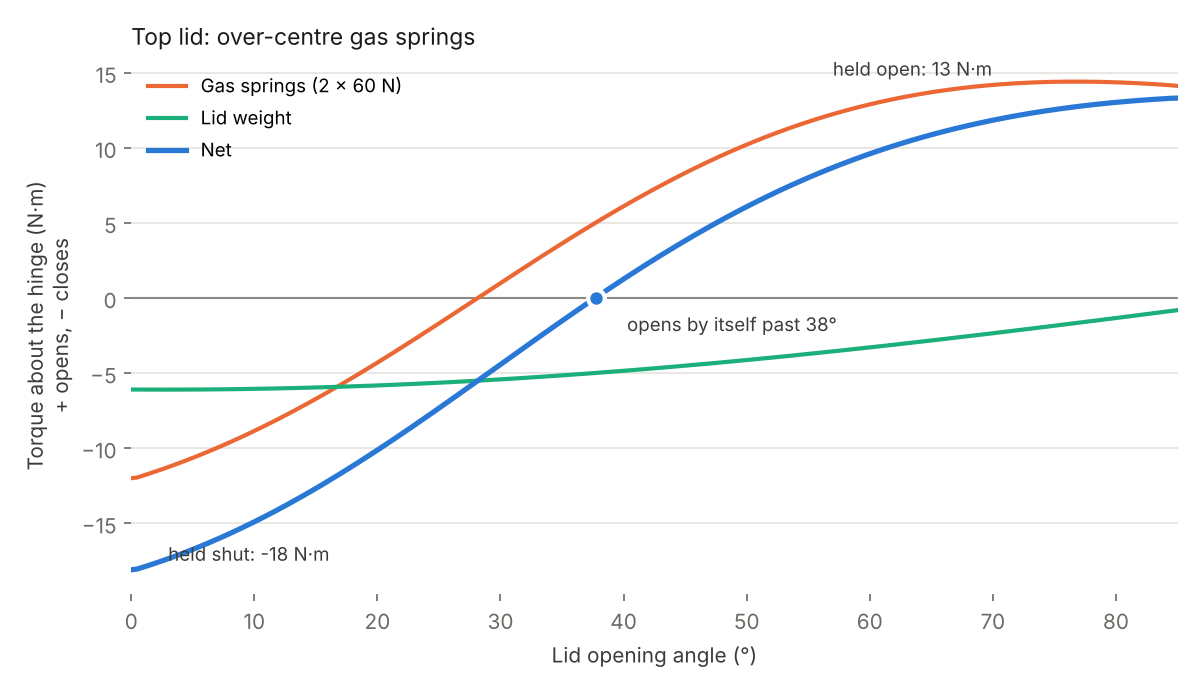
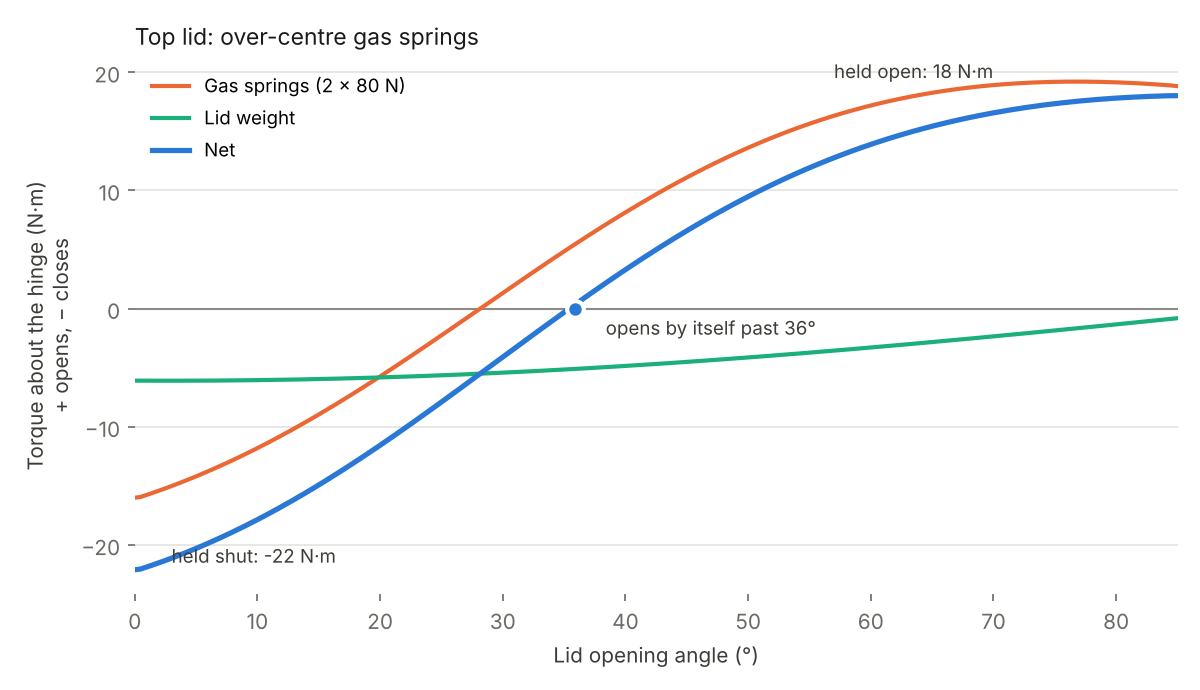
Top lid: 80 N (18 lb) struts as chosen; numbers and torque plot updated
Claude-Session: https://claude.ai/code/session_01M2WaH9nX83vAkfhzjoxYSn

diff --git a/scripts/lid/mklid.py b/scripts/lid/mklid.py
@@ -161,7 +161,7 @@ add({'tool':'describe','args':{}})
 add({'tool':'new_part_studio','args':{'name':'Lid gas springs'}})
 for f in ('gas_spring_body','gas_spring_rod','ball_stud'):
     add({'tool':'import_file','args':{'path':os.path.abspath(os.path.join(OUT,f+'.step')),'name':f}})
-add({'tool':'set_parts','args':{'parts':[{'body':[1,0],'name':'Gas spring body, 250 mm / 80 stroke, 60 N (Ø15 tube)','color':'#202020'},{'body':[2,0],'name':'Gas spring rod with ball socket (Ø6 rod)','color':'#c8c8c8'},{'body':[3,0],'name':'Ball stud M6, Ø10 ball','color':'#c8c8c8'}]}})
+add({'tool':'set_parts','args':{'parts':[{'body':[1,0],'name':'Gas spring body, 250 mm / 80 stroke, 80 N (18 lb) (Ø15 tube)','color':'#202020'},{'body':[2,0],'name':'Gas spring rod with ball socket (Ø6 rod)','color':'#c8c8c8'},{'body':[3,0],'name':'Ball stud M6, Ø10 ball','color':'#c8c8c8'}]}})
 add({'tool':'describe','args':{}})
 add({'tool':'save_document','args':{'path':os.path.abspath(os.path.join(OUT,'lid-doc.json'))}})
 json.dump(S,open(os.path.join(OUT,'lid_run.json'),'w'),indent=0)

diff --git a/scripts/lid/torque_plot.py b/scripts/lid/torque_plot.py
@@ -6,7 +6,7 @@ H=np.array([444.0,601.95]); B=np.array([151.0,577.0])      # hinge axis and fram
 U,V=100.0,-65.0                                             # lid ball: 100 in front of the hinge axis, 65 below it
 LEXT,STROKE,OPEN=250,80,85                                  # spring size, and the angle where it is fully extended
 MASS,UCG,VCG=2.6,239.0,-11.0                                 # lid + PIR + brackets (kg), CG from the hinge axis
-F1,K=60.0,1.3                                               # force at full extension per spring (N), F2/F1
+F1,K=80.0,1.3                                               # force at full extension per spring (N), F2/F1
 R=evaluate(H,B,U,V,LEXT,STROKE,F1,K,MASS,UCG,VCG,OPEN,n=2)
 th,T,Ts,Tg,l=R['th'],R['T'],R['Ts'],R['Tg'],R['l']
 lever=H[0]+25.5

diff --git a/lid/README.md b/lid/README.md
@@ -1,6 +1,6 @@
 # Top lid with over-centre gas springs and a seal
 
-The top panel is now a lid hinged along the back on two printed corner hinges that turn on 623 ball bearings. Two gas springs pull it shut when it is closed and push it open past about 38°, and it stays up at 85° by itself. A hollow silicone seal runs round the top of the frame. The top PIR board is bonded under the lid, so it lifts out of the way with it.
+The top panel is now a lid hinged along the back on two printed corner hinges that turn on 623 ball bearings. Two gas springs pull it shut when it is closed and push it open past about 36°, and it stays up at 85° by itself. A hollow silicone seal runs round the top of the frame. The top PIR board is bonded under the lid, so it lifts out of the way with it.
 
 Rev 3 (2026-11-22): heavier hinges moved to the lid's rear corners, each one printed in one piece with an arm that runs forward along the lid's side edge to the spring lever, so the spring force goes lever → arm → pin and not through the 3 mm lid. The springs and their brackets moved forward so that everything outside the side panel is in front of the filament tube, and the brackets clear the M5 button heads that hold the side panels.
 
@@ -18,22 +18,22 @@ Rev 3 (2026-11-22): heavier hinges moved to the lid's rear corners, each one pri
 | Lid | 3 mm 6061, the same 459 × 508 footprint as the old top panel (x −25.5..433.5, y −27.5..480.5), front corners rounded R12. It sits on the seal, so it is now at z 595.2–598.2 (5 mm higher). |
 | Insulation | The old top board (25.4 mm PIR) is bonded under the lid: x −3.5..402.5, y −1.5..454.5, z 569.8..595.2. It is 2 mm clear of the top extrusions all round. When the lid opens it swings up and forward, away from the rear rail. |
 | Seal | Self-adhesive hollow silicone D-profile, about 10 wide × 8 high, on the top face of the four top extrusions (centred on each rail; centre-line rectangle 430 × 480, about 1.82 m). It is modelled compressed to 5 mm. A close catalogue profile is Parker TechSeal hollow-D D010 (12.4 × 7.9) with the PSA backing, ordered in silicone. |
-| Gas springs | Two, one on each side, OUTSIDE the side panels (y −50 and 503), so they stay at room temperature and clear of everything in the chamber. Size: **250 mm extended (ball to ball), 80 mm stroke, Ø15 body, Ø6 rod, 60 N** each, Ø10 ball sockets on M6 ball studs. This is the common 10 inch cabinet lid strut; any 245–250 mm strut with at least 76 mm of stroke works. |
+| Gas springs | Two, one on each side, OUTSIDE the side panels (y −50 and 503), so they stay at room temperature and clear of everything in the chamber. Size: **250 mm extended (ball to ball), 80 mm stroke, Ø15 body, Ø6 rod, 80 N (18 lb)** each, Ø10 ball sockets on M6 ball studs. This is the common 10 inch cabinet lid strut; any 245–250 mm strut with at least 76 mm of stroke works. Jonas picked a 10 inch / 18 lb pair (2026-11-21); its kit has ball studs on screw plates, so either buy four M6 threaded Ø10 ball studs or the brackets get redrawn for the plates. |
 | Lid spring levers | Machined 8 mm 6061 plates, x 322–358, hanging outside the side panels 5 mm off them (2.2 mm over the 2.75 mm button heads). Ball stud at (344, 536.95) when closed. |
 | Frame brackets | Machined 13 mm 6061 blocks, 60 × 32 (x 121–181, z 558–590.2), on the side panels with 2× M5 × 20 through the panel into the top side rail's slot (x 131 and 171, z 580). A 12 × 3.2 mm channel runs along the back at z 574–586, so the bracket sits over the panel's M5 button heads wherever they are. Ball stud at (151, 577). If one of the panel's own screws lands on a bracket hole, use that position with a longer screw. |
 | Handle | Printed arch at the middle of the front edge, 110 long, 22 high, with an 80 × 16 finger opening. 2× M4 from under the lid, fitted before the insulation is bonded on. |
 
 ### Over-centre numbers
 
-From `scripts/lid/torque_plot.py` (lid + PIR + arms ≈ 2.6 kg, CG 239 mm in front of the pin, 60 N springs with F2/F1 = 1.3):
+From `scripts/lid/torque_plot.py` (lid + PIR + arms ≈ 2.6 kg, CG 239 mm in front of the pin, 80 N springs with F2/F1 = 1.3):
 
 ![torque](renders/torque.png)
 
-- **Closed:** 18.1 N·m holding it shut (12.0 from the springs, 6.1 from the lid's weight). That is about 75 N on the seal (≈ 4 N per 100 mm), and you lift with about 39 N at the front edge to open it.
+- **Closed:** 22.1 N·m holding it shut (16.0 from the springs, 6.1 from the lid's weight). That is about 92 N on the seal (≈ 5 N per 100 mm), and you lift with about 47 N at the front edge to open it.
 - **Springs' dead point:** 28°, where they are shortest (174.8 mm, 4.8 mm before they bottom out).
-- **Past 38°** it opens by itself. **At 85°** the springs hold it open with 13.3 N·m and are fully extended (250 mm), so the springs themselves are the end stop. Closing works the other way round: push it down past 38° and it pulls itself shut.
-- The torques scale with spring force: 50 N springs give 16.1 N·m shut / 11.0 N·m open, 80 N give 22.1 / 18.0.
-- Spring length over the swing: 197.1 (closed) → 174.8 (28°) → 250 (85°), checked in the assembly (the mates solve the loop: no failed mates at 0°, 28° and 85°). Highest spring force 77 N per side.
+- **Past 36°** it opens by itself. **At 85°** the springs hold it open with 18.0 N·m and are fully extended (250 mm), so the springs themselves are the end stop. Closing works the other way round: push it down past 36° and it pulls itself shut.
+- The torques scale with spring force: 45 N (10 lb) springs give 15.1 N·m shut / 9.8 N·m open, 60 N (13 lb) give 18.1 / 13.3.
+- Spring length over the swing: 197.1 (closed) → 174.8 (28°) → 250 (85°), checked in the assembly (the mates solve the loop: no failed mates at 0°, 28° and 85°). Highest spring force 103 N per side.
 
 `scripts/lid/search.py` is the search that picked the geometry: spring sizes, open angles and ball positions, keeping the ones that hold shut and open with the lid ball at least 27 mm in front of the filament tube hole and the frame ball beside the top side rail.
 
@@ -104,10 +104,10 @@ python3 scripts/lid/print_files.py lid-prints.stl lid/print      # the four STLs
 ## Not checked / open
 
 - The real top insulation: the CAD had a 25.4 mm PIR board in the top bay; if your sheet is a different thickness or sits under the rails, the plug changes.
-- Seal compression force is an estimate for a soft hollow profile; the closed torque gives ≈ 80 N over 1.82 m. If the profile you buy is much stiffer, go up a spring force.
+- Seal compression force is an estimate for a soft hollow profile; the closed torque gives ≈ 92 N over 1.82 m. If the profile you buy is much stiffer, go up a spring force.
 - The springs act as the 85° end stop. A rubber bump stop on the rear rail would take that load off them.
 - No latch: the springs hold it shut.
-- The printed hinges carry the springs' reaction (up to about 77 N per side). The ears are 10 mm thick with 4.5 mm of plastic round the bearing; printed on the side as above the load runs along the layers.
+- The printed hinges carry the springs' reaction (up to about 103 N per side). The ears are 10 mm thick with 4.5 mm of plastic round the bearing; printed on the side as above the load runs along the layers.
 - The tube and screw positions are read from photos (± a few mm). The exact spacing of the top row of panel screws is not known, so the frame bracket holes are not lined up with them yet.
 - Only the right side's tube is known; the left side is a mirror image.
 - Mounting holes in the lid panel itself (corner arms, handle) are not cut in the model.
